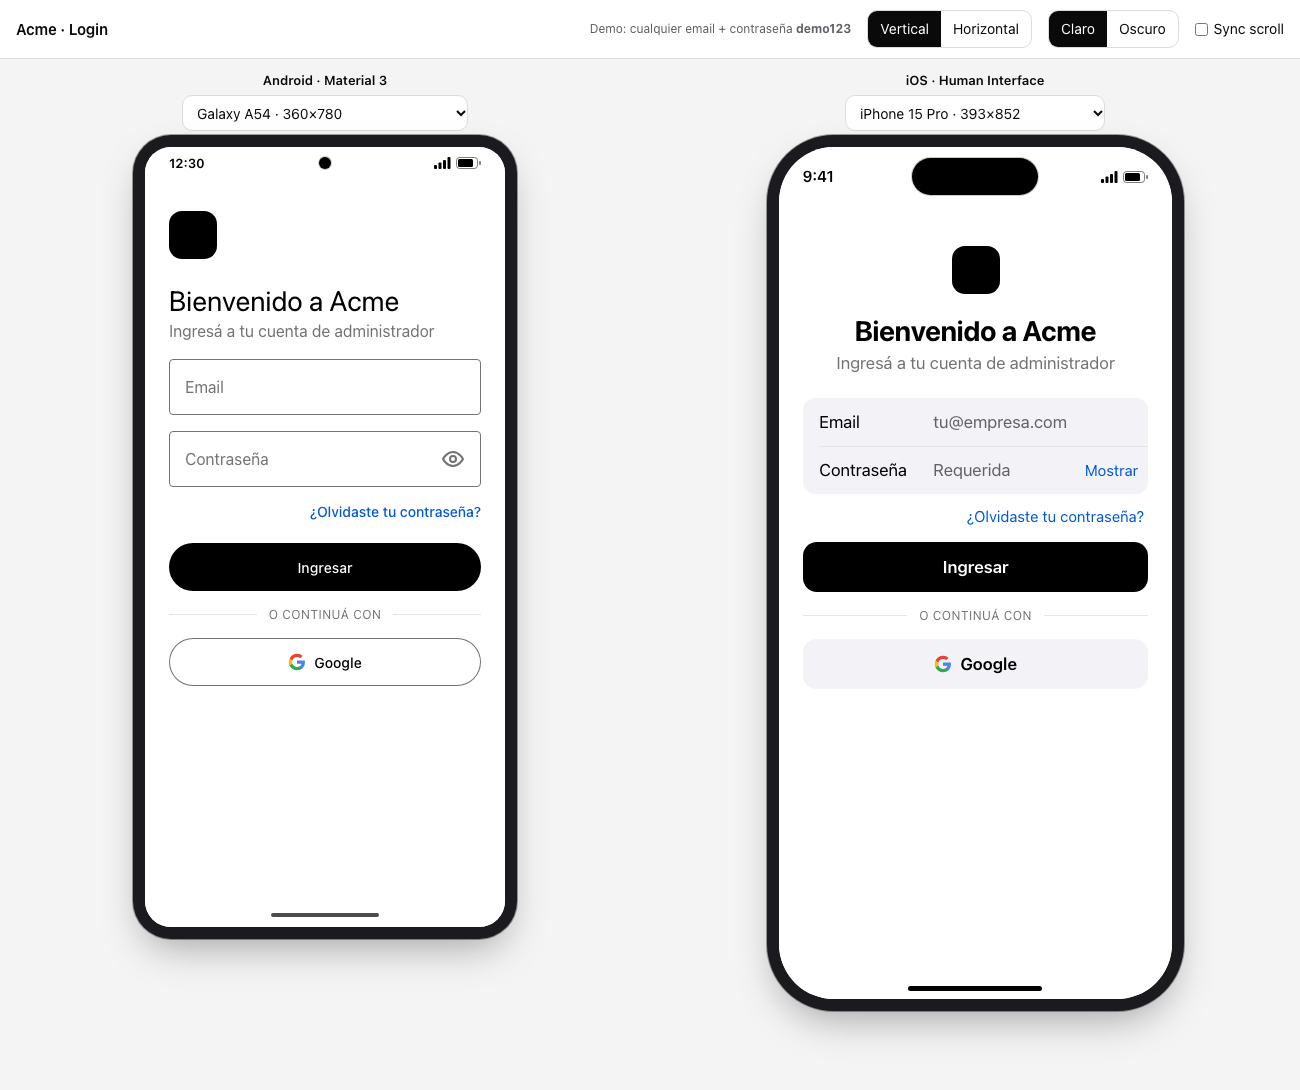
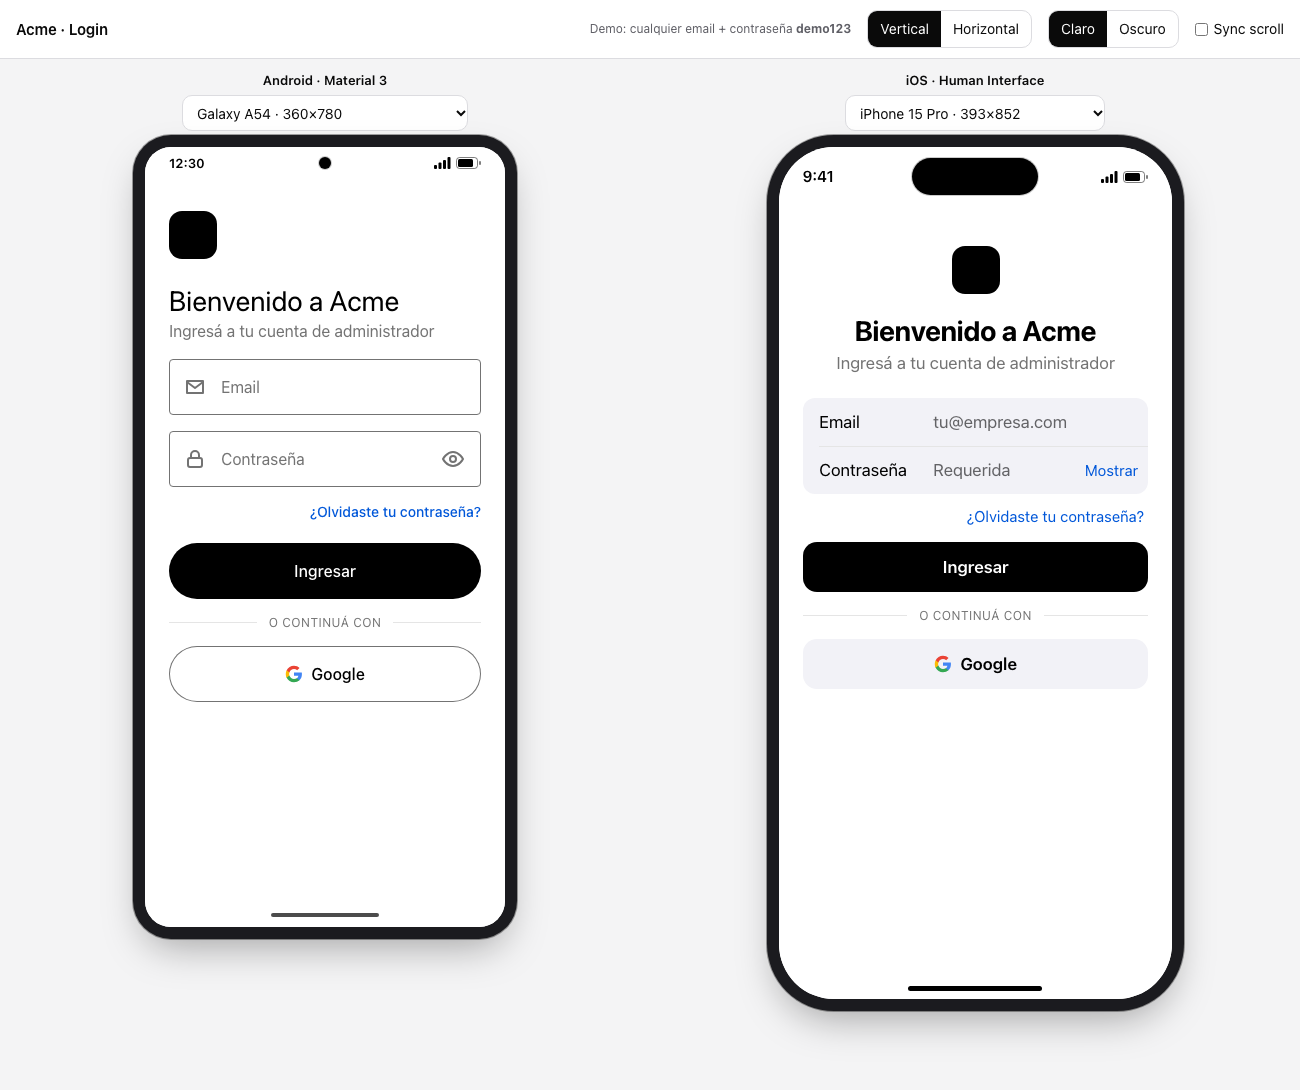
feat(mobile): name the native component for each job on both platforms

Changed region(s): [[0.1231, 0.4991, 0.3692, 0.6239], [0.1231, 0.4055, 0.2462, 0.4367], [0.1538, 0.3431, 0.1846, 0.3743]]

diff --git a/mobile/SKILL.md b/mobile/SKILL.md
@@ -32,8 +32,9 @@ The user wants to see how **one screen** looks on **Android and iOS at once**: t
    - In landscape the hardware rotates with the phone: the cutout sits on the left edge, its inset moves to the sides, and the iOS status bar hides.
 
 4. When the screen is rebuilt or designed (not live), render it **native** to each platform from the same content and task:
-   - Android follows Material 3: Roboto, top app bar with left-aligned title, FAB, bottom navigation bar, ripple feedback, system back gesture.
-   - iOS follows the Human Interface Guidelines: system font (`-apple-system`), large centered or collapsing title, tab bar, back chevron with swipe-back, sheets that slide from the bottom.
+   - Android uses the Material 3 **component** for each job, with all its parts, not a generic control restyled: outlined or filled text fields with floating label, leading and trailing icons, and supporting text for the error under the field; filled, tonal, outlined, and text buttons at their M3 sizes with ripple; a snackbar for transient messages; top app bar with left-aligned title, FAB, navigation bar; a secondary screen opens full screen with a back arrow. Roboto.
+   - iOS uses the Human Interface Guidelines **component** for each job: inset grouped lists for forms with the label on the left, text actions in the tint color, a banner above the form for errors, large centered or collapsing title, tab bar, back chevron with swipe-back; a secondary screen opens as a sheet that slides from the bottom. System font (`-apple-system`).
+   - The same job gets a different component on each platform when the platforms differ; list those pairs in the step 6 table.
    - Both keep the main task working: inputs respond, buttons change state, empty and error states reachable.
    - Touch targets 48dp or more on Android and 44pt or more on iOS; contrast 4.5:1 or more; no horizontal scroll at any model in the tables.
 
